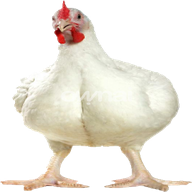
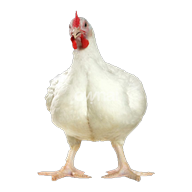
Fix: Iconos mejorados con gallina completa centrada en fondo cuadrado

Changed region(s): [[0.0, 0.0, 1.0, 1.0], [0.5625, 0.6562, 0.625, 0.6875]]

diff --git a/sw.js b/sw.js
@@ -1,4 +1,4 @@
-const CACHE_NAME = 'gallinas-kamikaze-v5';
+const CACHE_NAME = 'gallinas-kamikaze-v6';
 const urlsToCache = [
   '/',
   '/index.html',
@@ -6,7 +6,8 @@ const urlsToCache = [
   '/game.js',
   '/manifest.json',
   '/icon-192.png',
-  '/icon-512.png'
+  '/icon-512.png',
+  '/Gallina.png'
 ];
 
 self.addEventListener('install', (event) => {

diff --git a/create-icons.py b/create-icons.py
@@ -22,13 +22,35 @@ def create_icons():
         if img.mode != 'RGBA':
             img = img.convert('RGBA')
         
+        def create_square_icon(size):
+            # Crear un fondo transparente cuadrado
+            icon = Image.new('RGBA', (size, size), (0, 0, 0, 0))
+            
+            # Calcular el tamaño para mantener proporciones sin cortar
+            img_width, img_height = img.size
+            ratio = min(size / img_width, size / img_height)
+            new_width = int(img_width * ratio * 0.9)  # 0.9 para dejar espacio alrededor
+            new_height = int(img_height * ratio * 0.9)
+            
+            # Redimensionar manteniendo proporciones
+            resized_img = img.resize((new_width, new_height), Image.Resampling.LANCZOS)
+            
+            # Calcular posición para centrar
+            x = (size - new_width) // 2
+            y = (size - new_height) // 2
+            
+            # Pegar la imagen centrada en el fondo
+            icon.paste(resized_img, (x, y), resized_img)
+            
+            return icon
+        
         # Crear icono 192x192
-        icon_192 = img.resize((192, 192), Image.Resampling.LANCZOS)
+        icon_192 = create_square_icon(192)
         icon_192.save('icon-192.png', 'PNG')
         print("✓ Creado icon-192.png")
         
         # Crear icono 512x512
-        icon_512 = img.resize((512, 512), Image.Resampling.LANCZOS)
+        icon_512 = create_square_icon(512)
         icon_512.save('icon-512.png', 'PNG')
         print("✓ Creado icon-512.png")
         
